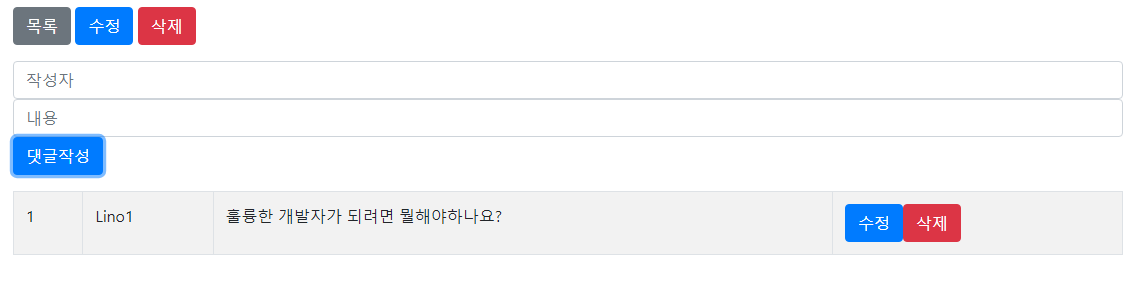
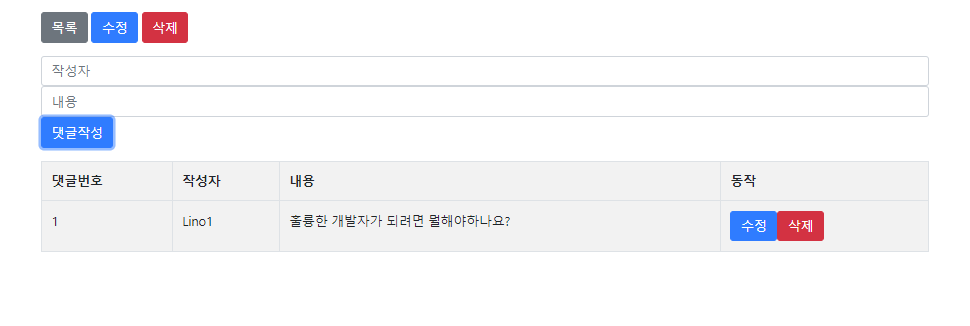
.

diff --git a/README.md b/README.md
@@ -31,6 +31,7 @@
 3. __댓글 기능__  
 \- __A. 댓글 작성(/comment/save)__  
 \- __B. 댓글 삭제(/comment/delete/{id})__  
+\- __C. 댓글 수정(/comment/update/{id})__
 
 ---
 
@@ -44,58 +45,17 @@
 \- 한 페이지에  게시글 5개씩 ==> 최대 3개 페이지씩  
 4. __파일 첨부하기__  
 5. __단일 파일 첨부__  
-6. __다중 파일 첨부__  
+6. __댓글 수정(/comment/update/{id})__
 
 ---
 
 ### ※ 향후 업데이트 예정 기능
 1. __추천 버튼(추천 많이받을시 인기 게시물 등록)__  
 2. __게시글 검색 기능__  
-3. __댓글 수정 기능__  
-4. __회원가입 및 로그인 기능__
+3. __회원가입 및 로그인 기능__
 
 ---
 
-### ※ 버전 업데이트
-
-### V1.0.0 (2023.11.21)
-
-1. __[추가] 게시물 작성 구현(/board/save)__  
-\- 게시글 작성 버튼 구현(Html)  
-\- 게시글 작성 구현 게시물 제목,게시물 내용(Html)
-2. __[추가] 메인 페이지 이동 구현(/)__  
-
-### V1.1.0 (2023.11.24)
-
-1. __[추가] 게시물 페이지 구현(/board/paging)__  
-2. __[추가] 게시물 작성 화면으로 이동(/board/create)__  
-3. __[추가] 게시물 조회(/board/{id})__  
-\- 게시물 번호, 게시물 제목,게시글 작성일, 게시글 내용  
-\- 목록,수정,삭제 버튼(Html, JavaScript)
-4. __[추가] 게시물 수정(/board/update,/board/update/{id})__  
-5. __[추가] 게시물 삭제(/board/delete/{id})__
-
-### V1.2.0 (2023.11.25)
-1. __[추가] 게시물 게시글 연동(/getComments/{boardId})__
-2. __[추가] 게시글 작성(/comment/save)__  
-\- 게시글 버튼 작성(Html, JavaScript)
-
-### V1.3.0 (2023.11.26)
-
-1. __[추가] 게시글 삭제(/comment/delete/{id})__
-\- 게시글 삭제 버튼(Html, JavaScript)
-
-### V1.4.0 (2023.11.28)
-
-1. __[추가] 게시물 파일 다운로드(/download/{uuid}/{fileName})__  
-\- 게시글 작성시 다운로드 버튼(Html, JavaScript)
-### V1.4.1 (2023.11.28)
-
-1. __새로고침후 목록 사라지는거 보안__
-2. __게시물 등록시 파일을 등록을 안하여도 등록되도록 보안__
-3. __화면 디자 수정__
-
----
 
 ## ※ 기능 구현 설명 CURD
 ### 게시물
@@ -136,21 +96,31 @@
   <img src="./image/9.png">
 </div><br>
 
-7. 게시물 삭제(/board/delete/{id})
-\- 상세 화면에서 삭제 버튼 클릭
+7. 게시물 삭제(/board/delete/{id})  
+\- 상세 화면에서 삭제 버튼 클릭하면 삭제가능
 
 ### 댓글
-1. 댓글 작성(/comment/save)
+1. 게시물 댓글 작성(/comment/save)
 <div class="centered-image">
   <img src="./image/14.png">
 </div><br>
 
-2. 게시물에 댓글 확인(/comment/getComments/{boardId})
+2. 게시물 댓글 확인(/comment/getComments/{boardId})
 <div class="centered-image">
   <img src="./image/12.png">
 </div><br>
 
-3. 댓글 삭제(/comment/delete/{id})
+3. 게시물 댓글 삭제(/comment/delete/{id})  
+\- 게시물 화면에서 삭제버튼 클릭하면 삭제가능
+
+4. 게시물 댓글 수정(/comment/update/{id})
+<div class="centered-image">
+  <img src="./image/15.png">
+</div><br>
+<div class="centered-image">
+  <img src="./image/16.png">
+</div><br>
+
 
 
 ### 파일 다운
@@ -158,3 +128,50 @@
 <div class="centered-image">
   <img src="./image/10.png">
 </div><br>
+
+---
+
+### ※ 버전 업데이트
+
+### V1.0.0 (2023.11.21)
+
+1. __[추가] 게시물 작성 구현(/board/save)__  
+\- 게시글 작성 버튼 구현(Html)  
+\- 게시글 작성 구현 게시물 제목,게시물 내용(Html)
+2. __[추가] 메인 페이지 이동 구현(/)__  
+
+### V1.1.0 (2023.11.24)
+
+1. __[추가] 게시물 페이지 구현(/board/paging)__  
+2. __[추가] 게시물 작성 화면으로 이동(/board/create)__  
+3. __[추가] 게시물 조회(/board/{id})__  
+\- 게시물 번호, 게시물 제목,게시글 작성일, 게시글 내용  
+\- 목록,수정,삭제 버튼(Html, JavaScript)
+4. __[추가] 게시물 수정(/board/update,/board/update/{id})__  
+5. __[추가] 게시물 삭제(/board/delete/{id})__
+
+### V1.2.0 (2023.11.25)
+1. __[추가] 게시물 댓글 연동(/getComments/{boardId})__
+2. __[추가] 댓글 작성(/comment/save)__  
+\- 댓글 버튼 작성(Html, JavaScript)
+
+### V1.3.0 (2023.11.26)
+
+1. __[추가] 댓글 삭제(/comment/delete/{id})__
+\- 댓글 삭제 버튼(Html, JavaScript)
+
+### V1.4.0 (2023.11.28)
+
+1. __[추가] 게시물 파일 다운로드(/download/{uuid}/{fileName})__  
+\- 게시물 작성시 다운로드 버튼(Html, JavaScript)
+
+### V1.4.1 (2023.11.29)
+
+1. __새로고침후 목록 사라지는거 보안__
+2. __게시물 등록시 파일을 등록을 안하여도 등록되도록 보안__
+3. __화면 디자인 수정__
+
+### V1.5.0 (2023.12.12)
+1. __[추가]게시물 댓글 카테고리__
+2. __[추가] 댓글 수정 기능(/comment/update/{id})__  
+\- 댓글 수정 후에도 카테고리가 유지되도록 기능을 보완.
